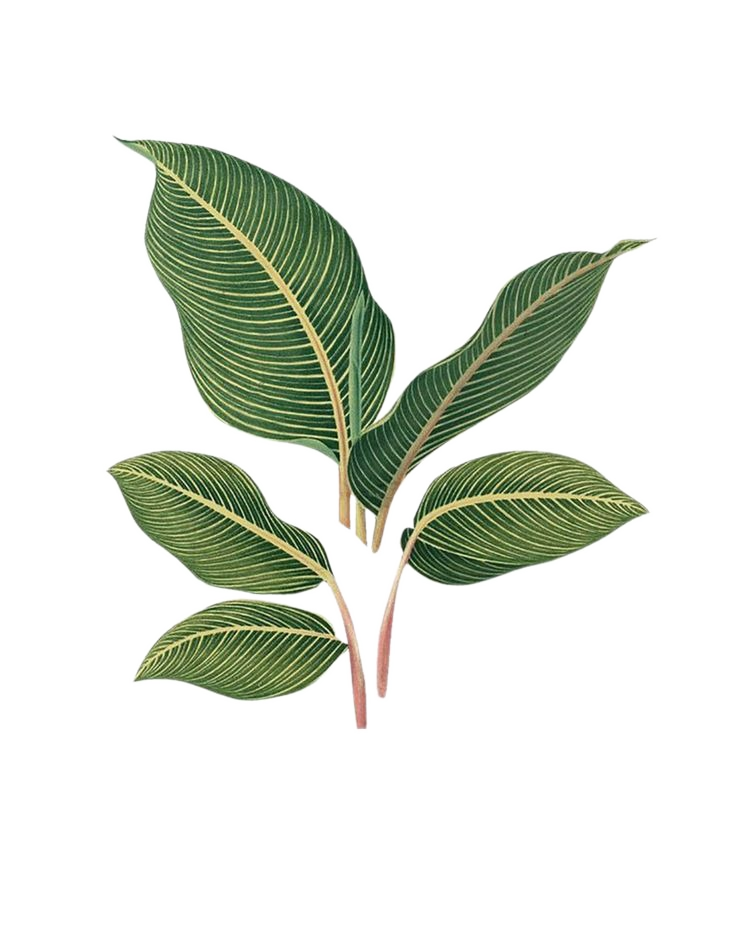
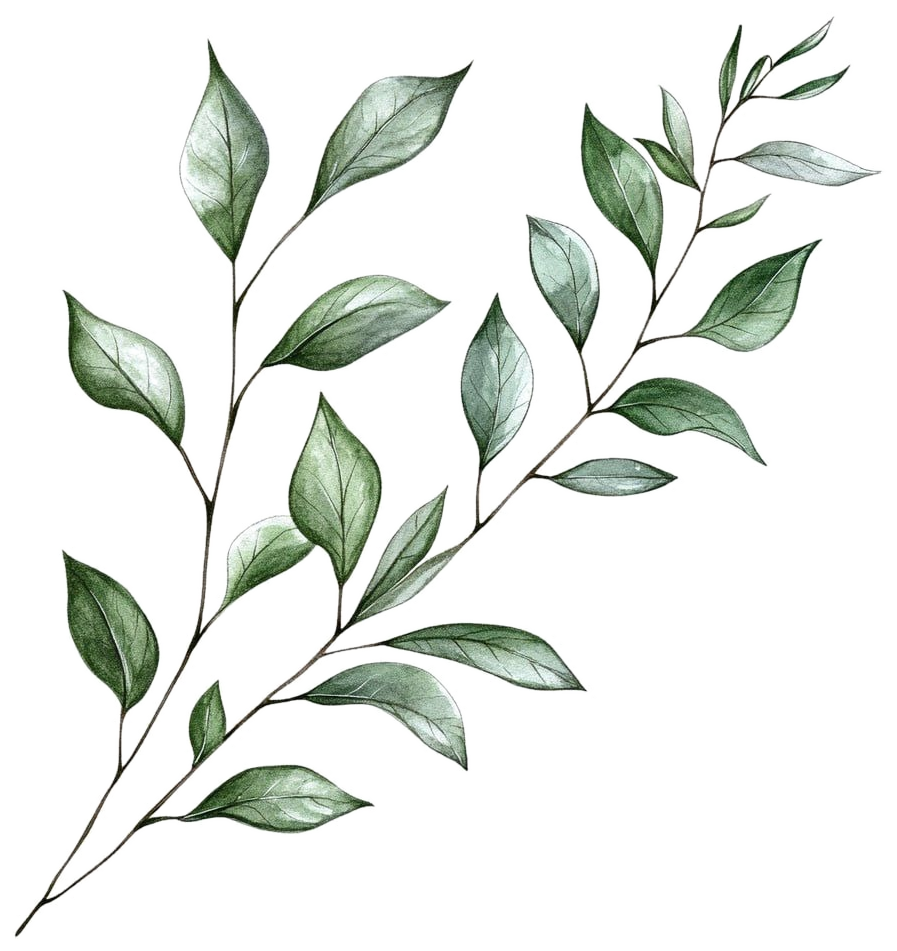
Replace fourth foliage option with new watercolor leafy branch and set its CSS scale to scale(1.15)

diff --git a/index.css b/index.css
@@ -758,7 +758,7 @@ body.stage-garden .hearts-bg-container {
   transform: translate(-50%, -50%) scale(1.20); /* olive branch, scaled up as requested */
 }
 .foliage-type-4 {
-  transform: translate(-50%, -50%) scale(1.55); /* make this ribbed leaf branch bigger as requested! */
+  transform: translate(-50%, -50%) scale(1.15); /* make this ribbed leaf branch bigger as requested! */
 }
 .foliage-type-5 {
   transform: translate(-50%, -50%) scale(1.1);